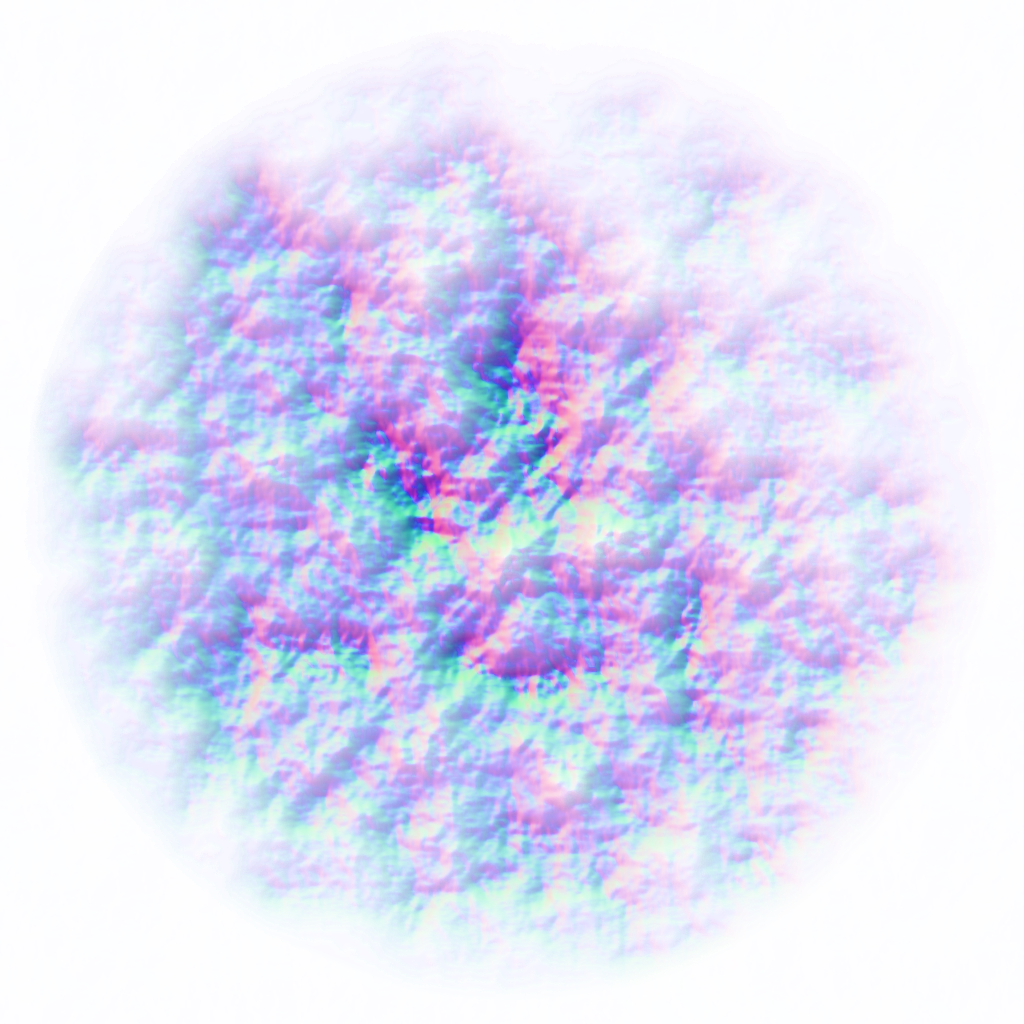
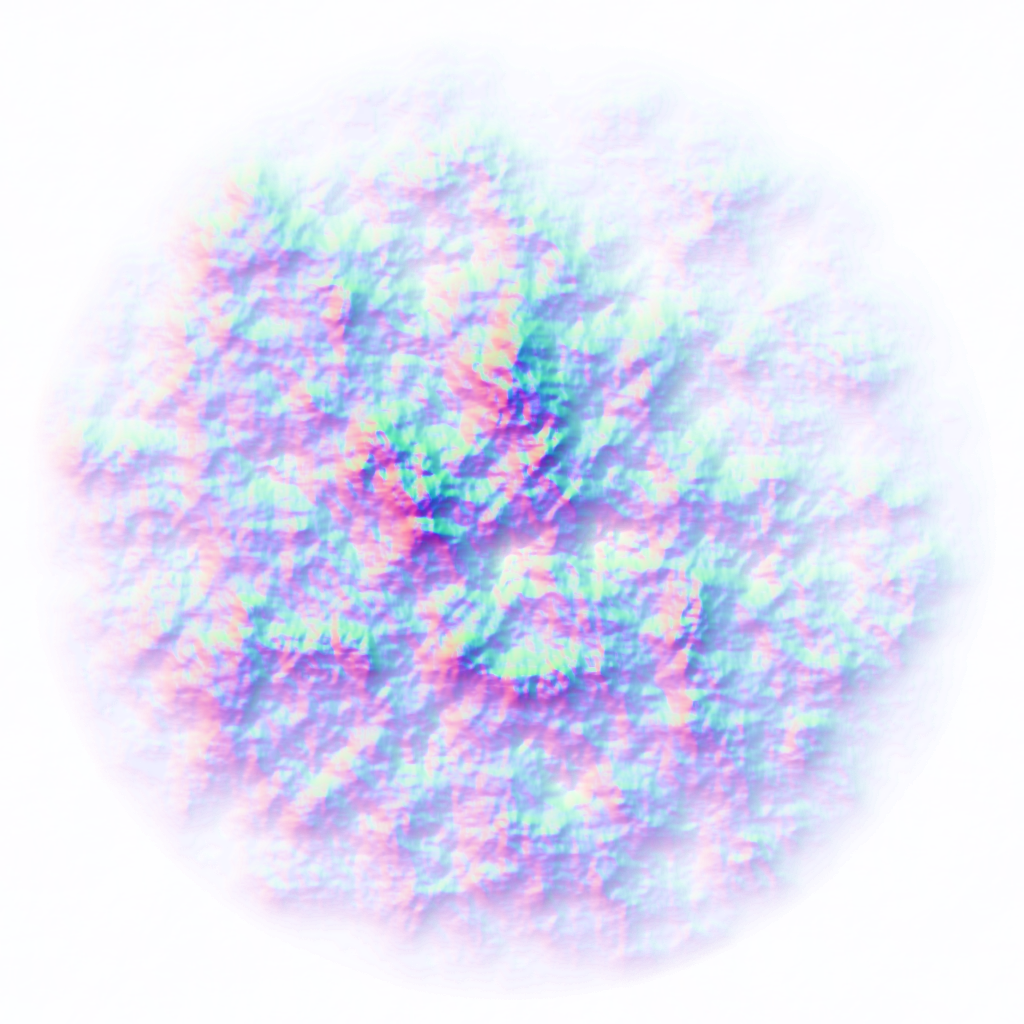
Fucked it all up

diff --git a/src/application.js b/src/application.js
@@ -4,7 +4,7 @@ provides('main');
 
 var sceneGraph;
 
-var Q = 0.5,
+var Q = 1.0,
     GRID_RESOLUTION = 512*Q,
     GRID_SIZE = 512,
     FAR_AWAY = 5000,
@@ -34,6 +34,7 @@ function prepareScene(){
         waterVBO = new glUtils.VBO(mesh.grid(100)),
         heightmapTexture = new glUtils.Texture2D(resources['gfx/heightmap.png']),
         normalnoiseTexture = new glUtils.Texture2D(resources['gfx/normalnoise.png']),
+        snowTexture = new glUtils.Texture2D(resources['gfx/snow.png']),
         mountainShader = shaderManager.get('heightmap.vertex', 'terrain.frag'),
         waterShader = shaderManager.get('water'),
         postShader = shaderManager.get('screen.vertex', 'tonemapping.frag'),
@@ -45,9 +46,9 @@ function prepareScene(){
     globalUniforms = {
         skyColor: new uniform.Vec3([0.1, 0.15, 0.45]),
         // looks sexy for some reason
-        groundColor: new uniform.Vec3([-0.025, -0.05, -0.1]),
+        groundColor: new uniform.Vec3([0.025, 0.05, 0.1]),
         sunColor: new uniform.Vec3([1.6, 1.47, 1.29]),
-        sunDirection: new uniform.Vec3([0.577, 0.277, 0.077]),
+        sunDirection: new uniform.Vec3([0.0, 1.0, 20.0]),
         time: time,
         clip: 1000
     };
@@ -56,7 +57,8 @@ function prepareScene(){
 
 
     var mountain = new scene.Material(mountainShader, {
-                heightmap: heightmapTexture
+                heightmap: heightmapTexture,
+                snowTexture: snowTexture
             }, [
             mountainTransform = new scene.Transform([
                 new scene.SimpleMesh(vbo)
@@ -114,7 +116,7 @@ function prepareScene(){
         bloom = new scene.Node([
             brightpass,
             hblurpass,
-            vblurpass,
+            vblurpass
         ]);
 
 
@@ -185,7 +187,8 @@ loader.load([
 
     'gfx/heightmap.png',
     'gfx/normalnoise.png',
-    'gfx/waternormal.jpg'
+    'gfx/waternormal.jpg',
+    'gfx/snow.png'
 ]);
 
 clock.ontick = function(td) {
